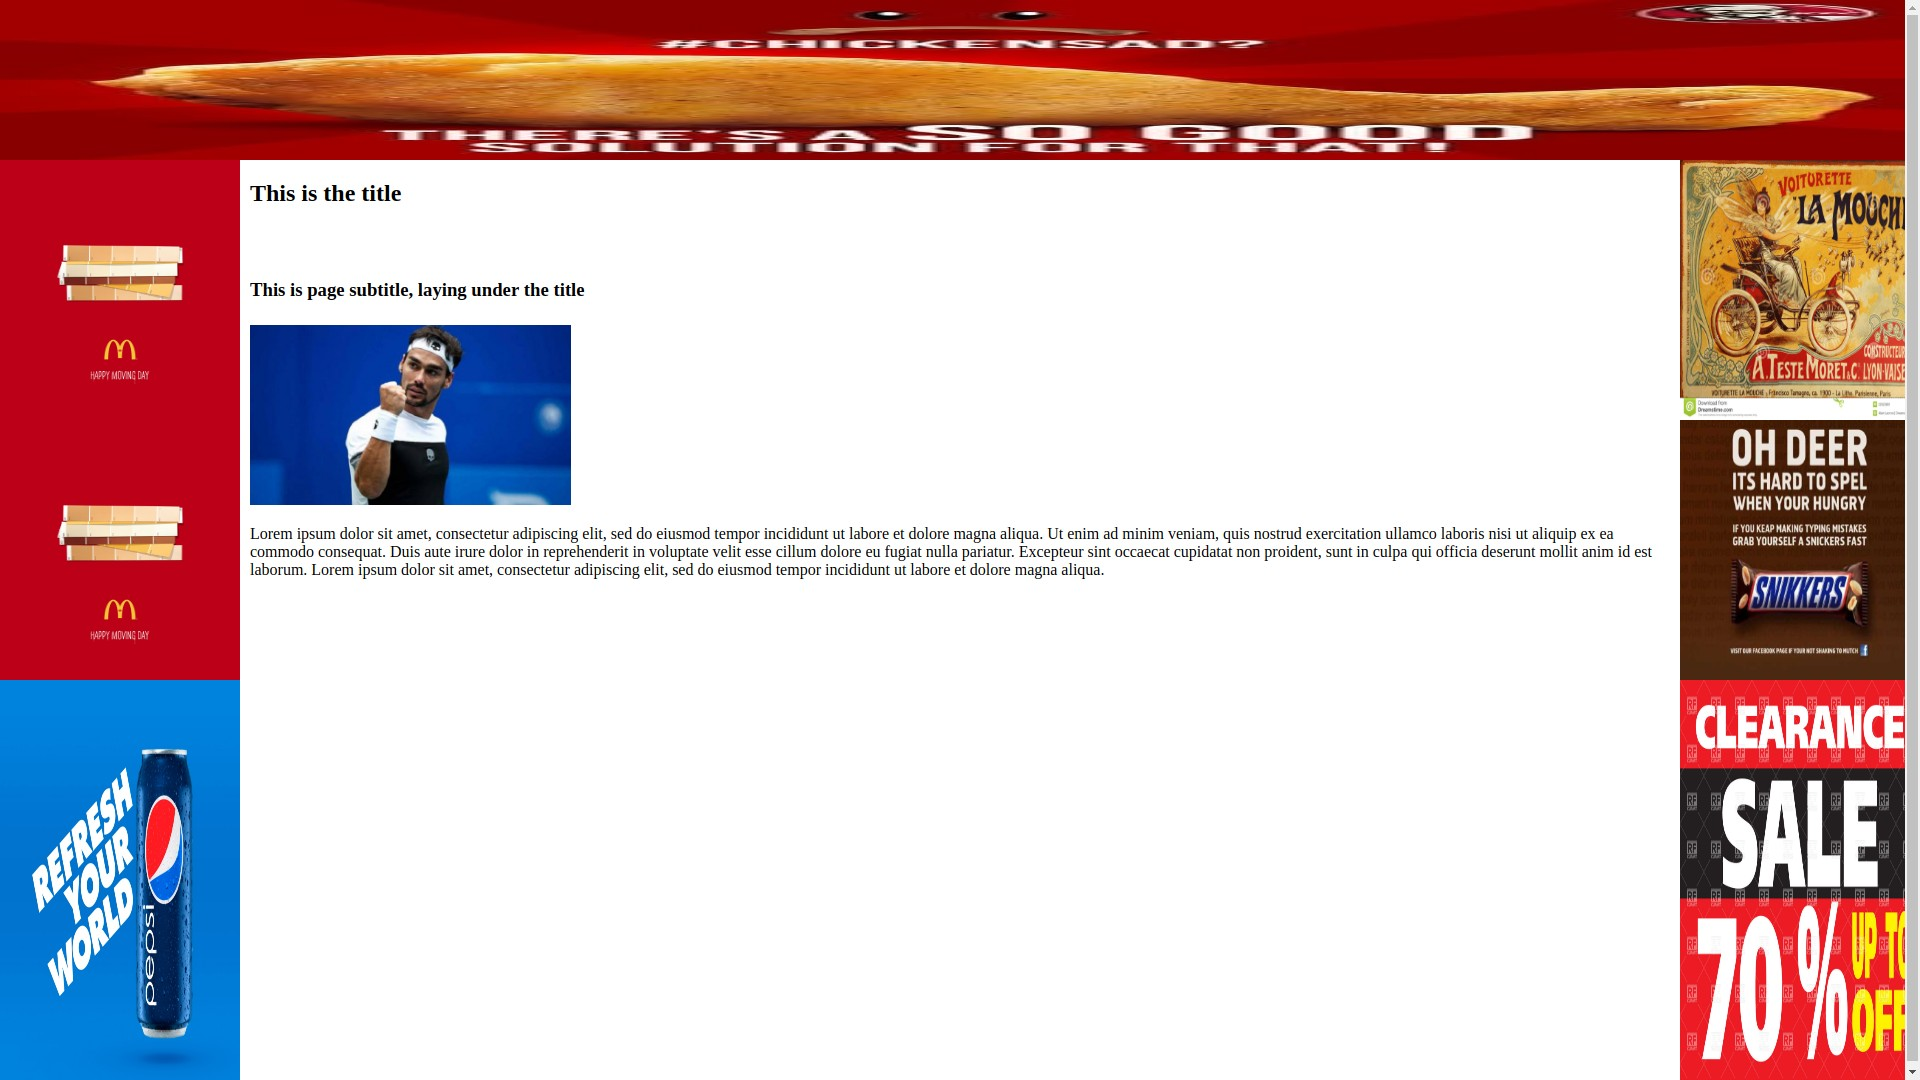
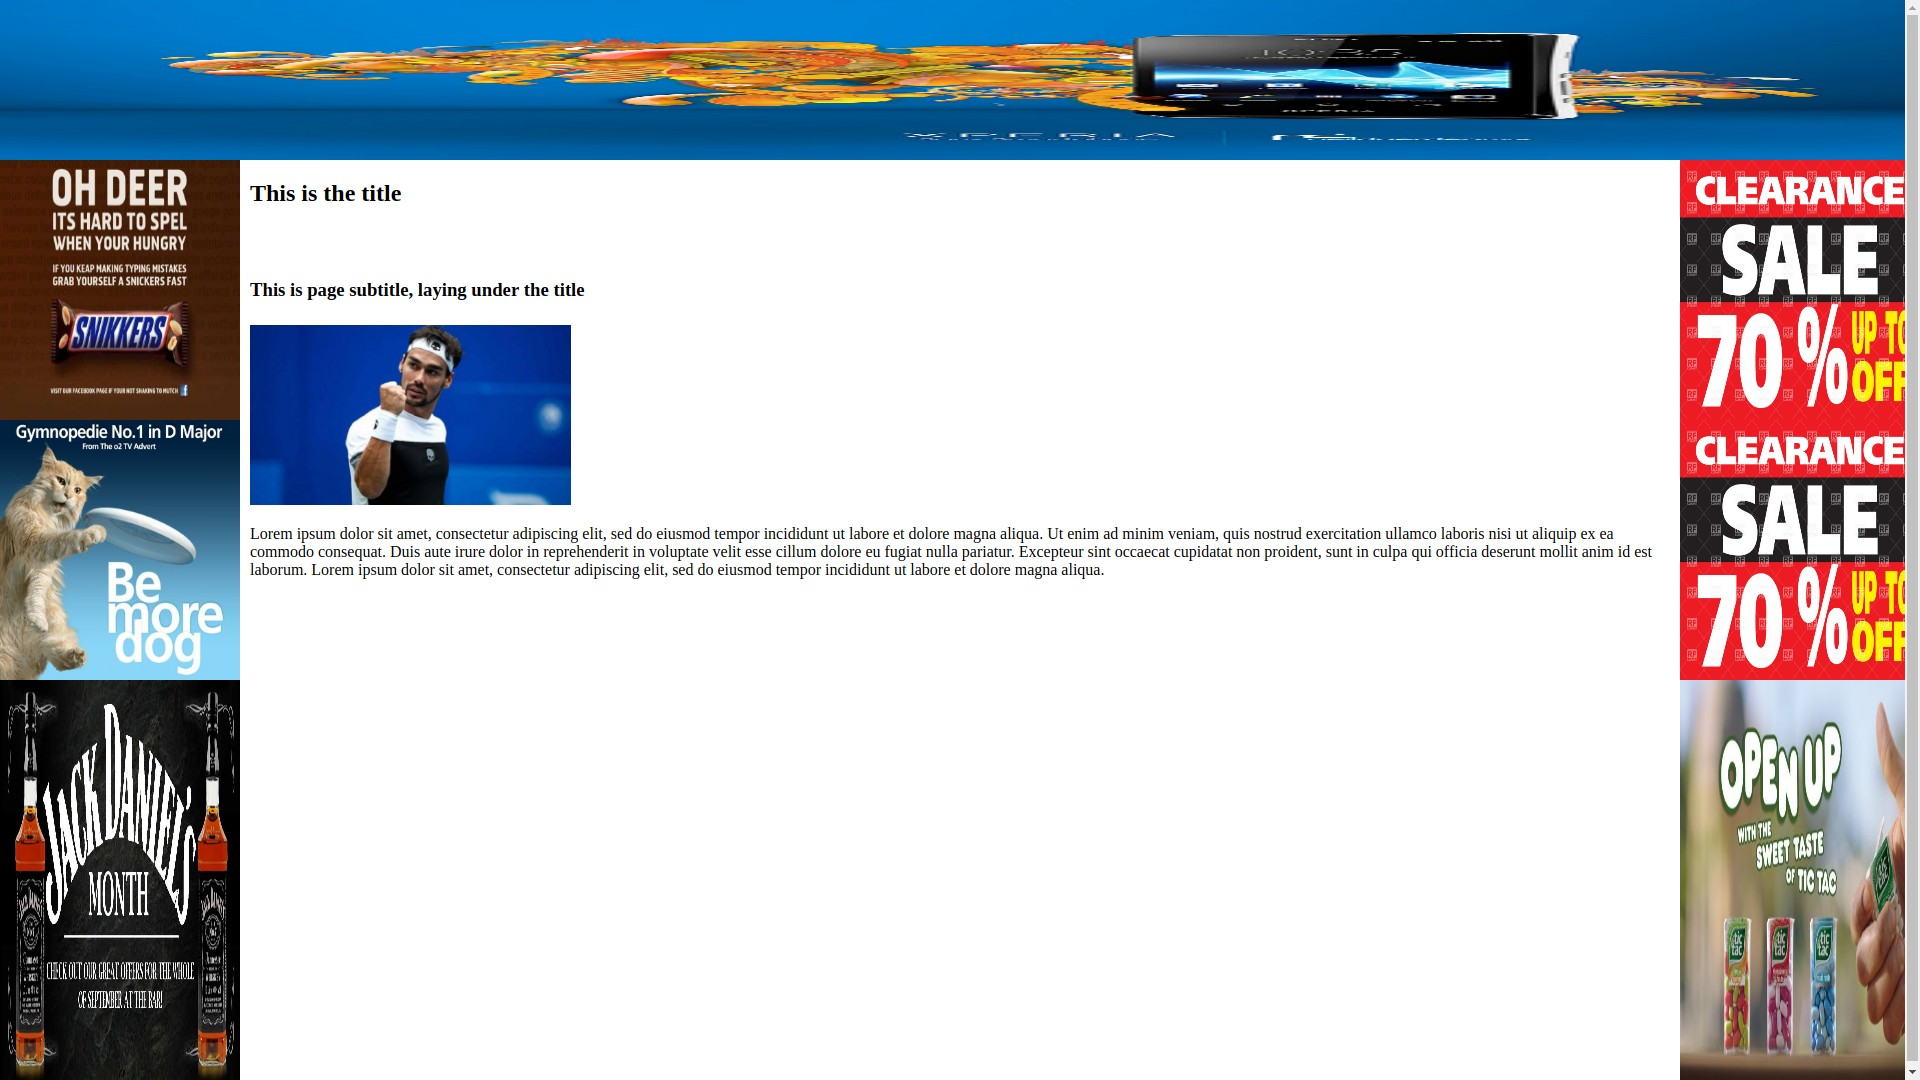
wip - implementing classification metrics evaluation

diff --git a/pageGenerator/src/environments/environment.ts b/pageGenerator/src/environments/environment.ts
@@ -11,7 +11,7 @@ export const environment = {
   baseBlockWidthPx: 10,
   baseBlockHeightPx: 10,
 
-  currentConfig: 'repubblica',
+  currentConfig: 'externalBands',
 
   configurations: {
     // The structure array contains the blocks of our application as showed on screen

diff --git a/dynamicSectionsDetectionTool/computeAndPlotROC.py b/dynamicSectionsDetectionTool/computeAndPlotROC.py
@@ -1,0 +1,132 @@
+import json
+import shutil
+import sys
+from os import makedirs
+from os.path import exists
+
+import matplotlib as pyplot
+
+
+def plotData(outfolder, curves):
+    legend = []
+    for curve in curves:
+        legend.append('PDE = ' + str(curve['PDE']))
+
+    print('Plotting accuracy when varying NN0 with different PDEs...')
+    pyplot.ylabel('Accuracy')
+    pyplot.xlabel('NN0 threshold values')
+    for curve in curves:
+        pyplot.plot(curve['NN0'], curve['ACCURACY'])
+
+    pyplot.legend(legend, loc='best')
+    pyplot.savefig(outfolder + 'accuracy.png')
+    pyplot.clf()
+
+    print('Plotting accuracy when varying NN0 with different PDEs...')
+    pyplot.ylabel('Precision')
+    pyplot.xlabel('NN0 threshold values')
+    for curve in curves:
+        pyplot.plot(curve['NN0'], curve['PRECISION'])
+
+    pyplot.legend(legend, loc='best')
+    pyplot.savefig(outfolder + 'precision.png')
+    pyplot.clf()
+
+    print('Plotting accuracy when varying NN0 with different PDEs...')
+    pyplot.ylabel('Recall')
+    pyplot.xlabel('NN0 threshold values')
+    for curve in curves:
+        pyplot.plot(curve['NN0'], curve['TPR'])
+
+    pyplot.legend(legend, loc='best')
+    pyplot.savefig(outfolder + 'recall.png')
+    pyplot.clf()
+
+    print('Plotting accuracy when varying NN0 with different PDEs...')
+    pyplot.ylabel('TPR')
+    pyplot.xlabel('FPR')
+    for curve in curves:
+        pyplot.plot(curve['FPR'], curve['TPR'])
+
+    pyplot.legend(legend, loc='best')
+    pyplot.savefig(outfolder + 'accuracy.png')
+    pyplot.clf()
+
+    return
+
+
+def main():
+    workdir = sys.argv[1]
+    configurationIndex = int(sys.argv[2])
+
+    # Loading results of dynamic section analysis and pageConfiguration data (truth)
+    with open(workdir + '/input/rocData_config_' + str(configurationIndex) + '.json') as rocDataFile:
+        rocCurves = json.load(rocDataFile)
+    with open(workdir + '/input/configuration.json') as inputFile:
+        pageConfiguration = json.load(inputFile)
+        dynamicBlocksSummary = pageConfiguration['dynamicBlocksSummary']
+
+    # Counting total amount of Positive and Negative values
+    P, N = 0, 0
+    for value in dynamicBlocksSummary:
+        if value is True:
+            P += 1
+        else:
+            N += 1
+    # Total population
+    T = P + N
+
+    curves = []
+    for curve in rocCurves:
+        pde = curve['PDE']
+        testData = curve['rocCurveData']
+        nn0_values, tpr_values, fpr_values, precision, accuracy = [], [], [], [], []
+
+        for test in testData:
+            test_dynamicBlocksSummary = test['isDynamicArray']
+            # Counting down True Positives, False Positive, True Negative and total Predicted Positive
+            countTP, countFP, countTN, countPP = 0, 0, 0
+
+            if len(test_dynamicBlocksSummary) != N + P:
+                print('Huston we have got a problem!')
+
+            for blockIndex in range(0, len(test_dynamicBlocksSummary)):
+                if test_dynamicBlocksSummary[blockIndex] is True:
+                    countPP += 1
+                    if dynamicBlocksSummary[blockIndex] is True:
+                        countTP += 1
+                    else:
+                        countFP += 1
+                else:
+                    if dynamicBlocksSummary[blockIndex] is False:
+                        countTN += 1
+
+            nn0_values.append(test['NN0'])
+            tpr_values.append(countTP / P)
+            fpr_values.append(countFP / N)
+            precision.append(countTP / countPP)
+            accuracy.append((countTP + countTN) / T)
+
+        curves.append({
+            "PDE": pde,
+            "NN0": nn0_values,
+            "TPR": tpr_values,
+            "FPR": fpr_values,
+            "PRECISION": precision,
+            "ACCURACY": accuracy
+        })
+
+    plotOutFolder = workdir + '/output/classification_metrics/'
+    if not exists(plotOutFolder):
+        makedirs(plotOutFolder)
+    else:
+        shutil.rmtree(plotOutFolder)
+        makedirs(plotOutFolder)
+    plotData(plotOutFolder, curves)
+
+    with open(workdir + '/output/rocCurves.json', 'w+') as outfile:
+        json.dump(curves, outfile, indent=None)
+
+
+# +++++ Script Entrypoint
+main()

diff --git a/dynamicSectionsDetectionTool/rocSectionDetection.py b/dynamicSectionsDetectionTool/rocSectionDetection.py
@@ -1,4 +1,6 @@
-
+# This script exploits the results of the dynamicAectionDetectionTool
+# Results are evaluated wrt to a range of thresholds of NN0 and PDE and the array representing the final decison
+# about each bloc k is stored with a reference to the NN0 and PDE threshold values on which it was computed
 
 import json
 import sys
@@ -39,7 +41,7 @@ def main():
             print('Computing data for : NN0 - ' + str(NN0) + '  PDE - ' + str(PDE))
             isDynamicArray = []
             for blockRes in sectionDetectionResults['perBlockResult']:
-                # For test each nn0Count value with the current NN0 threshold
+                # Evaluate each nn0Count value with the current NN0 threshold
                 blockEvaluations = evaluateBlockNn0Counts(blockRes['nonZeroCounts'], NN0, blockHeightPx, blockWidthPx)
                 # Counting down amount of dynamic evaluations
                 dynamicEvaluations = 0
@@ -62,7 +64,7 @@ def main():
 
 
     with open(workdir + '/input/rocData_config_' + str(configuration_index) + '.json', 'w+') as f:
-        json.dump(rocCurves, f, indent=2)
+        json.dump(rocCurves, f, indent=None)
 
 
 # +++++ Script Entrypoint

diff --git a/dynamicSectionsDetectionTool/analyzeDataDistribution.py b/dynamicSectionsDetectionTool/analyzeDataDistribution.py
@@ -86,7 +86,7 @@ def main():
 
     distributionData = evaluateResults(perBlockResults, pageConfiguration)
 
-    plotOutFolder = workdir + '/output/plots/'
+    plotOutFolder = workdir + '/output/data_distributions/'
     if not exists(plotOutFolder):
         makedirs(plotOutFolder)
     else:
